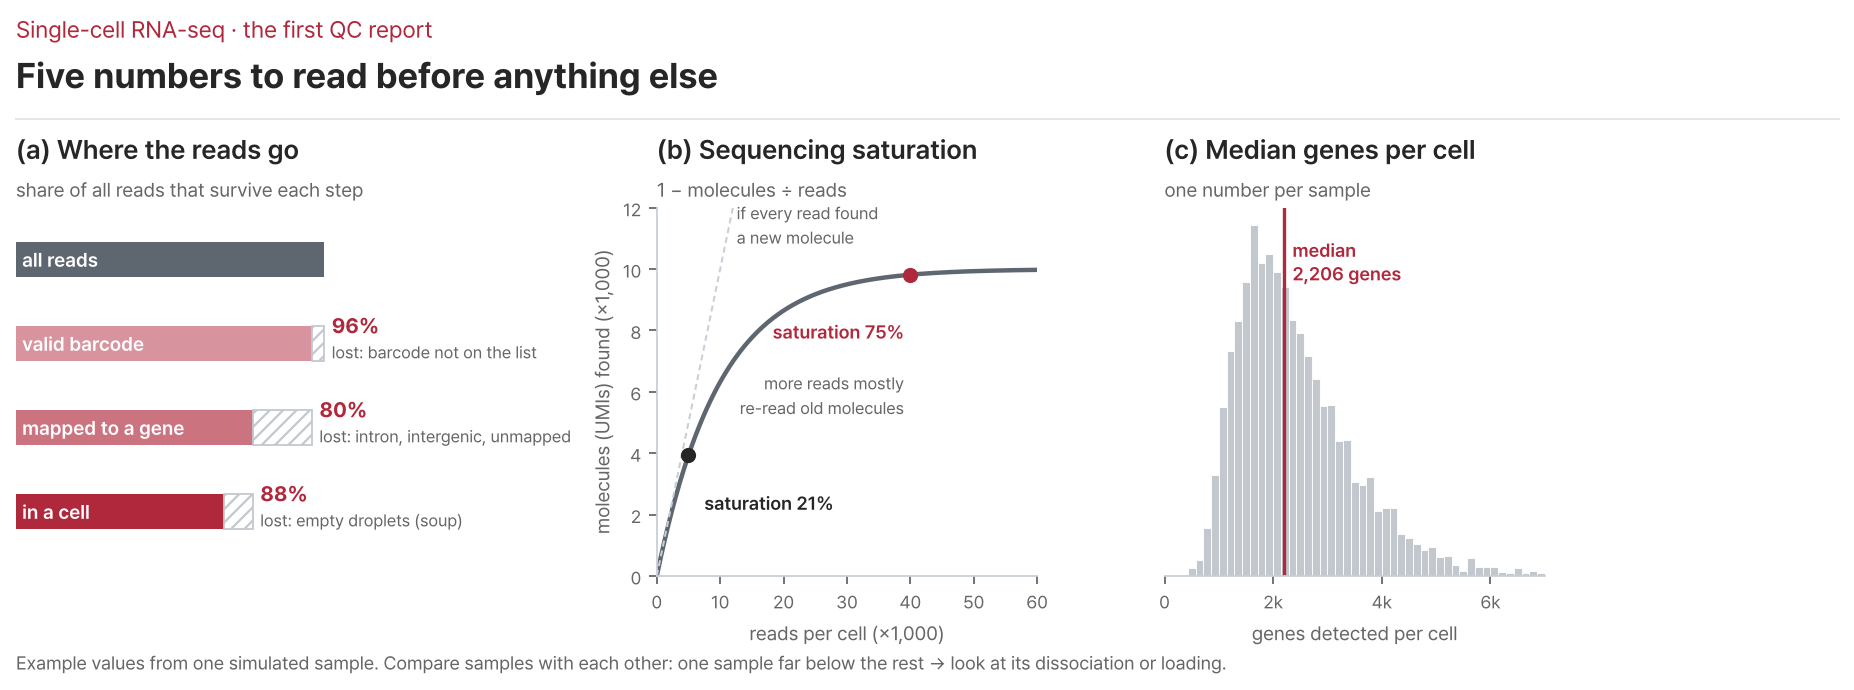
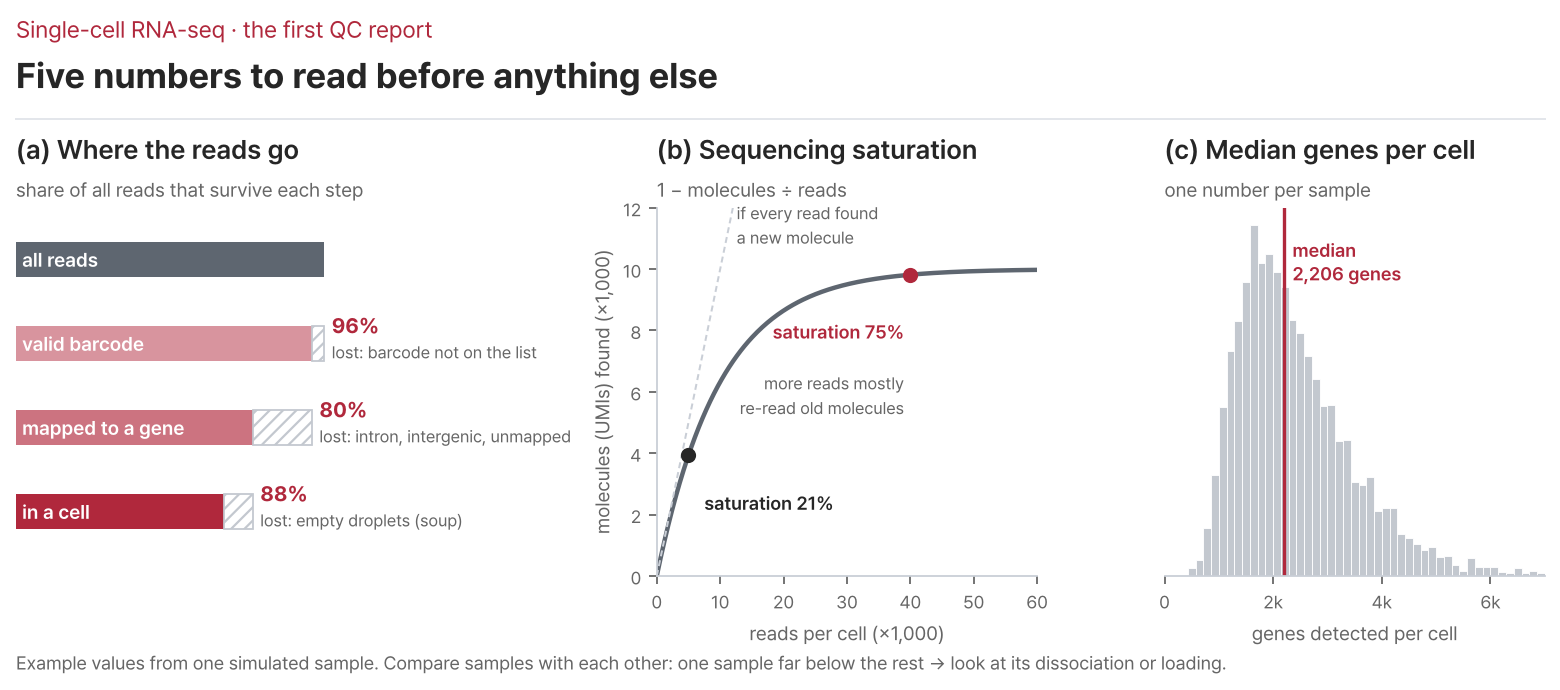
W5 (EN/KO): bead figure under §3.2 title, 3′/5′ end vs paired-end, QC figure margin, table widths
- Move the gel-bead oligo figure to right under "2) Barcodes and UMIs"
- §3.3: "one end" now says 3′/5′ end region of the transcript; add a note that
  10x runs are paired-end (Read 1 = barcode + UMI, Read 2 = cDNA), so this is
  not single-end sequencing
- k33_qc_metrics.py: header rule ends at panel (c) instead of running past the
  figure, which left a blank right margin after bbox="tight"; re-rendered
- Uneven column widths for five tables whose first column is short labels
  (scRNA vs snATAC, QC numbers, heterotypic/homotypic, normalisation steps,
  within/between cells)

Claude-Session: https://claude.ai/code/session_013CY8u9migbKMtmmyFb6BQn

diff --git a/figs/k33_qc_metrics.py b/figs/k33_qc_metrics.py
@@ -71,5 +71,7 @@ c.set_title("(c) Median genes per cell", loc="left", fontsize=12, fontweight="se
 c.text(0, 1.03, "one number per sample", transform=c.transAxes, fontsize=8.8, color=TEXT2)
 fig.text(0.01, 0.02, "Example values from one simulated sample. Compare samples with each other: one sample far below "
          "the rest → look at its dissociation or loading.", fontsize=8.4, color=TEXT2)
-header(a, "Single-cell RNA-seq · the first QC report", "Five numbers to read before anything else", dy=40, x1=3.55)
+pa, pc = a.get_position(), c.get_position()          # rule ends at the right edge of (c), so no blank margin
+header(a, "Single-cell RNA-seq · the first QC report", "Five numbers to read before anything else", dy=40,
+       x1=(pc.x1 - pa.x0) / pa.width)
 fig.savefig(OUT + "qc_metrics.png"); print("ok k33 qc metrics", round(med))
